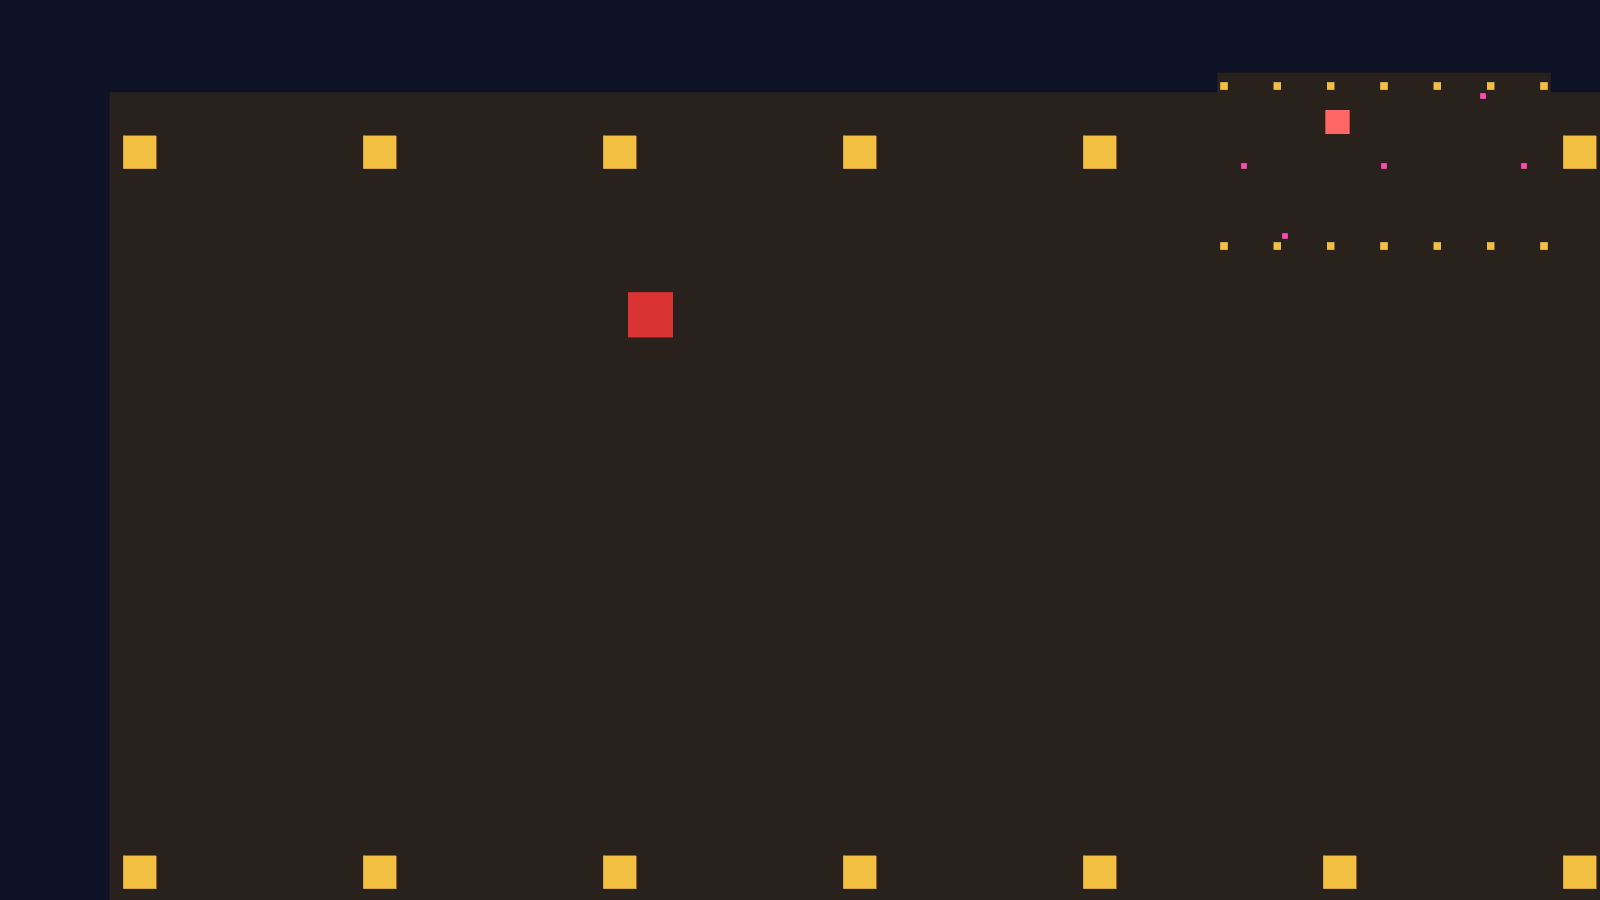
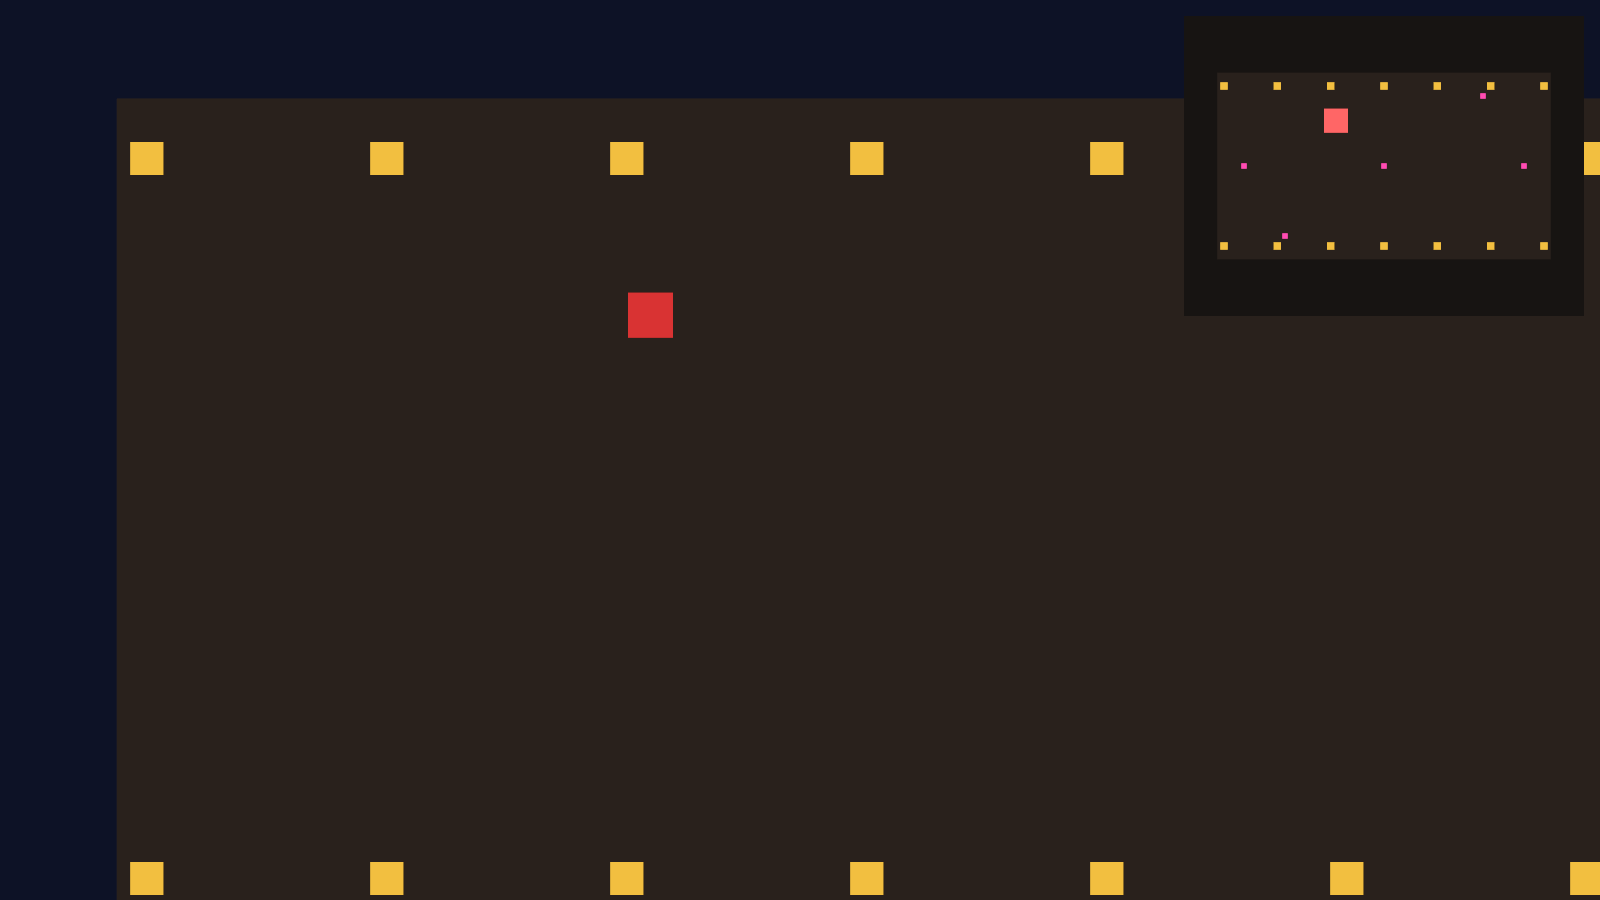
ch13: 修正多相机清屏断言——后画相机不清屏，沙盘改衬布垫底
ch28 写作期间实测发现：同一窗口上排位靠后的相机不执行清屏，其
clear_color（含 Custom）不落地，只在首相机铺的底上叠画（vendor 源码
prepare_view_targets/msaa_writeback/upscaling 三处链路核实）。连带修正：

- 13-05：listing-13-08 双机同 order 的真实画面是两幅取景叠印（实拍
  佐证：灯笼柱错乱、地毯过宽），非「其中一台的产出」；「各自清屏」删；
- 13-06：清屏段重写为「只有排最前的相机清屏」＋工作层衬布方案；
- 13-08：小结补清屏归属规则；练习 3 首步改为主机黑/沙盘白正反实验
  （已实测：黑全窗落地、白无影）；练习 4 提示按实测重写（沙盘随右路
  取景时隐时现，t=3.9 透出/t=11.8 被埋实拍验证）；
- 13-01：删「小地图要自带底色」失实伏笔；
- 代码：listing-13-10/main.rs 删无效 Custom，新增工作层深色衬布
  （1240×940，z=-20）作沙盘专属底；
- fig-13-06/09 重拍逐图核对；cargo check 与 mdbook build 全绿。

diff --git a/code/ch13-cameras/examples/listing-13-10.rs b/code/ch13-cameras/examples/listing-13-10.rs
@@ -42,13 +42,13 @@ fn setup(mut commands: Commands) {
             ..OrthographicProjection::default_2d()
         }),
     ));
-    // 沙盘机：order 靠后（叠在主画面上方），看第 0 层和工作层
+    // 沙盘机：order 靠后（叠在主画面上方），看第 0 层和工作层。
+    // 后画的相机不清屏，沙盘的底色由下面工作层的衬布负责
     commands.spawn((
         Camera2d,
         MinimapLens,
         Camera {
             order: 1,
-            clear_color: ClearColorConfig::Custom(Color::srgb(0.09, 0.08, 0.07)),
             ..default()
         },
         Projection::Orthographic(OrthographicProjection {
@@ -77,6 +77,14 @@ fn setup(mut commands: Commands) {
     }
 
     // ANCHOR: crew_props
+    // 沙盘的衬布：一块盖满沙盘取景框的深色底，也只许工作层看见——
+    // 同一窗口只有排最前的相机清屏，沙盘想要自己的底色，得真画一块
+    commands.spawn((
+        Sprite::from_color(Color::srgb(0.09, 0.08, 0.07), Vec2::new(1240.0, 940.0)),
+        Transform::from_xyz(0.0, 0.0, -20.0),
+        RenderLayers::layer(CREW_LAYER),
+    ));
+
     // 马克点：阿燕的走位记号，只许工作层看见
     for (x, y) in [(0.0, 0.0), (420.0, 0.0), (-420.0, 0.0), (297.0, 210.0), (-297.0, -210.0)] {
         commands.spawn((

diff --git a/code/ch13-cameras/src/main.rs b/code/ch13-cameras/src/main.rs
@@ -78,13 +78,13 @@ fn setup(mut commands: Commands) {
             ..OrthographicProjection::default_2d()
         }),
     ));
-    // 沙盘：最后画，叠在最上层；看第 0 层与工作层
+    // 沙盘：最后画，叠在最上层；看第 0 层与工作层。
+    // 后画的相机不清屏，沙盘的底色由工作层的衬布负责
     commands.spawn((
         Camera2d,
         MinimapLens,
         Camera {
             order: 2,
-            clear_color: ClearColorConfig::Custom(Color::srgb(0.09, 0.08, 0.07)),
             ..default()
         },
         Projection::Orthographic(OrthographicProjection {
@@ -110,6 +110,12 @@ fn setup(mut commands: Commands) {
             ));
         }
     }
+    // 沙盘的衬布：盖满沙盘取景框的深色底，只在工作层——沙盘的底色由它负责
+    commands.spawn((
+        Sprite::from_color(Color::srgb(0.09, 0.08, 0.07), Vec2::new(1240.0, 940.0)),
+        Transform::from_xyz(0.0, 0.0, -20.0),
+        RenderLayers::layer(CREW_LAYER),
+    ));
     // 马克点：走位记号，只在工作层
     for (x, y) in [(0.0, 0.0), (420.0, 0.0), (-420.0, 0.0), (297.0, 210.0), (-297.0, -210.0)] {
         commands.spawn((

diff --git a/book/src/ch13-08-thats-a-wrap.md b/book/src/ch13-08-thats-a-wrap.md
@@ -1,6 +1,6 @@
 # 杀青
 
-全章零件总装。机位单上三台机器：左路 `order 0` 跟拍阿燕，右路 `order 1` 跟拍踏雪，沙盘机 `order 2` 叠在右上角、两层通吃；马克点和两位主演的图例住在工作层，正片机位一概看不见；窗口一变，导播台整体重排；场记每四秒报一次左路的实拍范围。
+全章零件总装。机位单上三台机器：左路 `order 0` 跟拍阿燕，右路 `order 1` 跟拍踏雪，沙盘机 `order 2` 叠在右上角、两层通吃；衬布、马克点和两位主演的图例住在工作层，正片机位一概看不见；窗口一变，导播台整体重排；场记每四秒报一次左路的实拍范围。
 
 ```rust
 {{#include ../../code/ch13-cameras/src/main.rs}}
@@ -12,7 +12,7 @@
 cargo run -p ch13-cameras
 ```
 
-窗口左右分屏各追各的主角，右上角的沙盘里两个大图例在小黄点阵中画着各自的轨迹；控制台同步记着台账：
+窗口左右分屏各追各的主角，右上角衬布垫底的沙盘里，两个大图例在小黄点阵中画着各自的轨迹；控制台同步记着台账：
 
 ```text
 老雷：《侠客行》最后一场——全机位联动，开机！
@@ -22,7 +22,7 @@ cargo run -p ch13-cameras
 场记：左路实拍 x [-501, 32]，y [-122, 478]。
 ```
 
-![总装画面：左右分屏分别跟拍侠客与白马，右上角叠着沙盘小图，沙盘里有马克点与两位主演的大号图例，分屏画面里则没有](images/ch13/fig-13-09-wrap.png)
+![总装画面：左右分屏分别跟拍侠客与白马，右上角叠着深色衬布垫底的沙盘小图，沙盘里有马克点与两位主演的大号图例，分屏画面里则没有](images/ch13/fig-13-09-wrap.png)
 
 <span class="caption">Figure 13-9：全机位联动——order 排出三层画面，RenderLayers 各自结算</span>
 
@@ -35,7 +35,7 @@ cargo run -p ch13-cameras
 ## 小结
 
 - **相机是实体**：`Camera2d`/`Camera3d` 靠 required components 带齐 `Camera`、`Projection`、`Transform` 等全家桶；2D 与 3D 各启用一条渲染管线。没有相机就没有画面
-- **清屏色**：底色是相机每帧擦出来的。全局默认在 `ClearColor` 资源（出厂深灰），每台相机可用 `clear_color: ClearColorConfig` 改持 `Custom(颜色)` 或 `None`（不擦、直接叠画）
+- **清屏色**：底色是相机每帧擦出来的。全局默认在 `ClearColor` 资源（出厂深灰），相机可用 `clear_color: ClearColorConfig` 改持 `Custom(颜色)` 或 `None`（不擦、直接叠画）；同一个窗口上多相机时**只有排最前的那台真正清屏**，后画的一律直接叠画，它们的 `clear_color` 不落地
 - **运镜即改 `Transform`**：跟拍是每帧更新相机坐标；`smooth_nudge(&target, decay_rate, delta)` 给镜头帧率无关的平滑迟滞，速率越大追得越紧。相机的 z 别乱动——±1000 的可见区间以它为基准
 - **`Projection`** 一个枚举两大流派：正交（远近等大，2D 默认）与透视（近大远小，3D 默认）。`OrthographicProjection` 故意不实现 `Default`，构造用 `..default_2d()`（near = −1000）或 `..default_3d()`（near = 0）打底；`area` 字段是以相机为原点的真取景框，平移到相机位置即实拍范围
 - **世界↔视口换算**：视口坐标原点在左上、y 朝下。`viewport_to_world_2d` 把视口点（如鼠标）反算成世界坐标，`world_to_viewport` 走反向（血条、标签定位）
@@ -48,7 +48,7 @@ cargo run -p ch13-cameras
 
 1. **手感调校**：把 Listing 13-12 左路跟拍的 `smooth_nudge` 速率从 `2.0` 分别改成 `0.5` 和 `10.0`（右路保持 `2.0`），先预测分屏两侧的运镜差异，再运行对比。
 2. **电影感推拉**：Listing 13-7 的切镜是硬切。把 `cut_shots` 改成“每帧把 `ortho.scale` 向目标档位平滑逼近”——`f32` 同样实现了 `StableInterpolate`，`scale.smooth_nudge(&target, 3.0, delta)` 即可。分镜切换瞬间的观感会发生什么变化？
-3. **沙盘三连改**：基于 Listing 13-10 依次实验——把沙盘机的 `clear_color` 改成 `ClearColorConfig::None`；把它的 `RenderLayers` 改成只看 `from_layers(&[1])`；删掉图例子实体上的 `RenderLayers::layer(CREW_LAYER)`。每一步先预测沙盘和正片各自的变化，再运行验证。第三步的结果请用“RenderLayers 不沿层级继承”解释。
-4. **谁埋了沙盘**：把 Listing 13-12 里沙盘机的 `order` 改成 `0`、左路改成 `2`，预测右上角会发生什么，运行印证。提示：每台相机动笔前都要按自己的 `clear_color` 擦一遍自己的地盘。
+3. **沙盘三连改**：基于 Listing 13-10 依次实验——给主机位挂 `clear_color: ClearColorConfig::Custom(Color::BLACK)`、同时给沙盘机挂 `Custom(Color::WHITE)`，看哪台的颜色真上了画面、上在哪些地方；把沙盘机的 `RenderLayers` 改成只看 `from_layers(&[1])`；删掉图例子实体上的 `RenderLayers::layer(CREW_LAYER)`。每一步先预测沙盘和正片各自的变化，再运行验证。第一步的结果请用“只有排最前的相机清屏”解释，第三步的请用“RenderLayers 不沿层级继承”解释。
+4. **谁埋了沙盘**：把 Listing 13-12 里沙盘机的 `order` 改成 `0`、左路改成 `2`，预测右上角会发生什么，运行后盯着看至少十几秒再下结论。提示：后画的相机不清屏，右路只是把自己看见的东西叠上去——沙盘什么时候被埋、什么时候透出来，取决于那一刻右路的镜头里、那块地皮上画没画东西。
 
 下一章拍摄继续，但镜头转向幕后——片场里所有看得见的东西至今都是代码里现编的色块。真正的美术素材（图片、音频、字体、模型）怎么进入游戏？第 14 章拆 Bevy 的 Asset 系统：`AssetServer`、`Handle`，以及“加载是异步的”这件事如何改变你组织代码的方式。

diff --git a/book/src/ch13-06-minimap-and-render-layers.md b/book/src/ch13-06-minimap-and-render-layers.md
@@ -24,13 +24,13 @@
 
 <span class="caption">Listing 13-10（节选一）：主机位守第 0 层，沙盘机两层通吃（examples/listing-13-10.rs）</span>
 
-沙盘机的 `clear_color` 用上了第 1 节预告的 `ClearColorConfig::Custom`：自带一块比夜空更暗的底色，小图四周天然显出一圈“画框”。要是改成 `ClearColorConfig::None`，沙盘就不擦底、直接把灯笼柱和图例**叠画**在正片画面上——半透明 HUD 的味道，两种都值得跑一跑。
+沙盘机身上少了样东西：它没配自己的 `clear_color`。不是漏了，是配了也没用——上一节两机叠印时见过：**同一个窗口上，只有排最前的那台相机清屏**（用它的 `clear_color` 给整个窗口铺底），排在后面的相机一概不再擦布，直接把自己看见的东西叠画到已有画面上，它们的 `clear_color` 根本不会落地。于是沙盘的取景框里，凡是自己没画东西的地方，露出来的都是主机位先前画好的画面——多数时候正是那块大地毯，小图会整个“融”进正片里。想给沙盘一块专属的底，就得拿真会被画出来的东西当底：一块盖满取景框的深色衬布 `Sprite`，挂进工作层——沙盘看得见它，正片机位看不见：
 
 ```rust
 {{#include ../../code/ch13-cameras/examples/listing-13-10.rs:crew_props}}
 ```
 
-<span class="caption">Listing 13-10（节选二）：马克点与图例住进工作层（examples/listing-13-10.rs）</span>
+<span class="caption">Listing 13-10（节选二）：衬布、马克点与图例住进工作层（examples/listing-13-10.rs）</span>
 
 图例的挂法藏着一个容易栽跟头的细节：它是阿燕的**子实体**（第 9 章的 `children!`，跟着本体走位），但 `RenderLayers` **不沿层级继承**——爹在第 0 层、儿子挂哪层是儿子自己的事，一个实体一份组件，谁也不替谁作主。忘了给子实体单独挂层，它就默默留在第 0 层，正片穿帮没商量。
 
@@ -50,9 +50,9 @@ cargo run -p ch13-cameras --example listing-13-10
 老雷：右上角挂沙盘。马克点只许监视器看见，正片不许穿帮！
 ```
 
-跑起来逐项验收：主画面里镜头照常跟拍阿燕——**没有粉色马克点，没有大图例**，正片干干净净；右上角的沙盘里，十四根灯笼柱排成两行小黄点，五个粉色马克点原地待命，阿燕顶着醒目的大红图例画着“8”字。同一个世界，两台相机，各拍各的真相。
+跑起来逐项验收：主画面里镜头照常跟拍阿燕——**没有粉色马克点，没有大图例，也没有那块衬布**，正片干干净净；右上角的沙盘小图深色衬布垫底、四周衬出一圈画框，十四根灯笼柱排成两行小黄点，五个粉色马克点原地待命，阿燕顶着醒目的大红图例画着“8”字。同一个世界，两台相机，各拍各的真相。不信衬布那笔账的话，把它那几行注释掉再跑——沙盘的“底”当场消失，小图元素直接浮在正片的地毯上。
 
-![主画面跟拍红色侠客，画面里只有地毯和灯笼柱、没有任何粉色记号；右上角的沙盘小图里却清楚显示着五个粉色马克点和侠客的大号图例](images/ch13/fig-13-06-minimap.png)
+![主画面跟拍红色侠客，画面里只有地毯和灯笼柱、没有任何粉色记号；右上角深色衬布垫底的沙盘小图里却清楚显示着五个粉色马克点和侠客的大号图例](images/ch13/fig-13-06-minimap.png)
 
 <span class="caption">Figure 13-6：同一个世界，两种真相——马克点与图例只存在于沙盘的画面里</span>
 

diff --git a/book/src/ch13-05-split-screen.md b/book/src/ch13-05-split-screen.md
@@ -12,7 +12,7 @@
 cargo run -p ch13-cameras --example listing-13-08
 ```
 
-窗口照常打开，画面看上去也“正常”——但控制台立刻抗议了一声：
+窗口照常打开，粗看片场还是那个片场——可盯两眼就露馅了：灯笼柱多出好几根、间距也乱了，地毯宽得不像话。控制台还同步抗议了一声：
 
 ```text
 WARN bevy_render::camera: Camera order ambiguities detected for active cameras with
@@ -24,7 +24,7 @@ of the scene or (2) for cases where multiple active cameras is intentional,
 ambiguities could result in unpredictable render results.
 ```
 
-引擎的意思翻译过来：两台启用的相机往**同一个渲染目标**（主窗口）画画，可它们的 `order` 都是默认的 `0`——谁先画谁后画，没有说法。后画的会整幅压住先画的（包括清屏那一下），于是你看到的“正常画面”其实只是其中一台的产出，**至于是哪台，引擎不保证**。这是那种“今天看着对、改天换台机器就闪烁”的隐患。警告只报这一声就归于安静——它混在启动日志里一眼扫过去很容易漏掉，而安静不等于没事。
+引擎的意思翻译过来：两台启用的相机往**同一个渲染目标**（主窗口）画画，可它们的 `order` 都是默认的 `0`——谁先画谁后画，没有说法。画面上那些破绽正是这么来的：**排在前面的相机清屏、铺底；排在后面的相机不再清屏，直接把自己的取景叠画上去**。于是你看到的是两幅取景叠印的合成品——两台拍的是同一块场地，地毯同色，拼缝看不出来；灯笼柱和阿燕却各有两套位置，谁露出来、谁被后画那台的地毯盖住，全看叠印次序。本机这一跑是 2 号机叠在上面：画面里只剩它拍的那位阿燕，还偏离了画面正中。**至于谁先谁后，引擎不保证**——换一跑、换台机器都可能翻面。警告只报这一声就归于安静——它混在启动日志里一眼扫过去很容易漏掉，而安静不等于没事。
 
 两味药对症：
 
@@ -61,7 +61,7 @@ cargo run -p ch13-cameras --example listing-13-09
 场记：分屏就位，每路 800 × 900 物理像素。
 ```
 
-窗口从中线一分为二：左路镜头柔柔地跟着阿燕，右路追着踏雪绕场，两路各自清屏、各自取景，互不相扰。拖动窗口边框，分割线始终咬住中线——`WindowResized` 的功劳。
+窗口从中线一分为二：左路镜头柔柔地跟着阿燕，右路追着踏雪绕场，两路各自取景，互不相扰。拖动窗口边框，分割线始终咬住中线——`WindowResized` 的功劳。
 
 ![分屏画面：左半屏镜头对着红色侠客，右半屏对着白色骏马，两路画面各自取景，中线分明](images/ch13/fig-13-05-split-screen.png)
 

diff --git a/workorders/ch28.md b/workorders/ch28.md
@@ -250,7 +250,8 @@
      Custom 清屏配置；28.12 正文与图改「靠色板两次亮相辨界」+一句点破；fig-28-17 重拍。
      **连带发现 ch13 两处失实断言**（13-05「各自清屏」、13-08 练习 4 提示）+ 13-10/main
      沙盘机无效 Custom 配置——13-10 实测沙盘视口露的是主相机清屏色 (13,18,38) 非自家
-     (23,20,18)，已开独立后台任务 task_290eb625 修正，不并入本章。
+     (23,20,18)，已开独立后台任务 task_290eb625 修正，不并入本章（该任务 2026-07-08 已完结：
+     13-01/05/06/08 重写＋沙盘改工作层衬布垫底＋fig-13-06/09 重拍）。
   3. **main.rs 架子贴顶盖命图标**——①的连带，同一修法解决；根平级 UiStack 翻转问题随架子
      挂树消失。
 - 备注处置：fig-28-13 alt「右上」→「上排正中」（agent 抓的措辞不符）；fig-28-07 caption

diff --git a/PROGRESS.md b/PROGRESS.md
@@ -30,7 +30,7 @@
 | 10 | State——游戏状态机 | ✅ | code/ch10-states（src/main.rs + examples/listing-10-01～09，其中 10-10 在 no-compile/ 下为编译失败示例，开 bevy `debug` feature）；book/src/ch10-00～06；已迁 0.19（同值转换清场行为实测入正文，listing-10-07 加手肘一幕） |
 | 11 | 深入 ECS | ✅ | code/ch11-deep-ecs（src/main.rs + examples/listing-11-01～16，其中 11-02 在 no-compile/ 下为编译失败示例、11-05 为运行 panic 示例；main.rs 即 Listing 11-17；开 bevy `debug`+`track_location` feature）；book/src/ch11-00～09；已迁 0.19（新增“资源实体与混合查询”“连续访问”两节，配 listing-11-14～16，原盘点日顺延为 ch11-09） |
 | 12 | Transform 与坐标系统 | ✅ | code/ch12-transforms（src/main.rs + examples/listing-12-01～12，main.rs 即 Listing 12-13，开 bevy `debug` feature）；book/src/ch12-00～08；插图 images/ch12（Figure 12-1～12，含 1 张动图，scripts/make_ch12_figures.py 一键重建）；已迁 0.19（代码零改；B0004 警告块与 GlobalTransform 手改叙述按实测更新；7 张运行图重建逐图核对） |
-| 13 | Camera 与视口 | ✅ | code/ch13-cameras（src/main.rs + examples/listing-13-01～11，其中 13-06 在 no-compile/ 下为编译失败示例；main.rs 即 Listing 13-12）；book/src/ch13-00～08；插图 images/ch13（Figure 13-1～9，含 1 张动图，scripts/make_ch13_figures.py 一键重建）；已迁 0.19（代码零改；order 冲突警告改单次告警叙述、窗口实体号按实跑更新；7 张运行图重建逐图核对） |
+| 13 | Camera 与视口 | ✅ | code/ch13-cameras（src/main.rs + examples/listing-13-01～11，其中 13-06 在 no-compile/ 下为编译失败示例；main.rs 即 Listing 13-12）；book/src/ch13-00～08；插图 images/ch13（Figure 13-1～9，含 1 张动图，scripts/make_ch13_figures.py 一键重建）；已迁 0.19（代码零改；order 冲突警告改单次告警叙述、窗口实体号按实跑更新；7 张运行图重建逐图核对）；2026-07-08 多相机清屏机制修正（ch28 连带发现）：同窗后画相机的 clear_color 不落地——13-01/05/06/08 失实断言与练习按实测重写（13-08 双机实为叠印、练习 4 沙盘时隐时现均实拍佐证）、13-10/main 删无效 Custom 改工作层衬布垫底、fig-13-06/09 重拍核对 |
 | 14 | Asset 系统 | ✅ | code/ch14-assets（src/main.rs + examples/listing-14-01～11，main.rs 即 Listing 14-12；开 bevy `file_watcher` feature，依赖 thiserror）；book/src/ch14-00～09；插图 images/ch14（Figure 14-1～7，scripts/make_ch14_figures.py 一键重建；美术资产由 scripts/make_ch14_assets.py 生成）；已迁 0.19（新增“白纸黑字：把资产存回磁盘”一节（ch14-07，AssetSaver/save_using_saver，配 listing-14-09，原 09/10 顺延为 10/11、细则与开机大吉顺延为 ch14-08/09）；load_builder 正文跟进；热重载三实验回归；5 张运行图重建逐图核对） |
 | 15 | 2D 渲染：Sprite 与图集 | ✅ | code/ch15-sprites（src/main.rs + examples/listing-15-01～11，main.rs 即 Listing 15-12）；book/src/ch15-00～07；插图 images/ch15（Figure 15-1～14，含 3 张 SVG、1 张动图，scripts/make_ch15_figures.py 一键重建；美术资产由 scripts/make_ch15_assets.py 生成）；已迁 0.19（代码零改；load_builder 口径跟进、border 越界 ERROR 块按实跑双条更新；11 张运行图重建逐图核对，其中 8 张与旧版逐字节一致） |
 | 16 | 文本与字体 | ✅ | 已迁 0.19。code/ch16-text（src/main.rs + examples/listing-16-01～14，main.rs 即 Listing 16-15；listing-16-05 走 crate 转发 feature `system_font_discovery` + required-features 门控；中文字体资产为 Noto Sans SC 的 GB2312 子集，另有可变字体 MonaSans-VariableFont.ttf，scripts/make_ch16_assets.py 一键重建）；book/src/ch16-00～12（新增 16-03 字模三种叫法／16-04 向系统借字模／16-05 可变字体／16-07 会自己变的字号）；插图 images/ch16（Figure 16-1～16，含 1 张 SVG、2 张动图，scripts/make_ch16_figures.py 一键重建） |

diff --git a/book/src/ch13-01-unpacking-camera2d.md b/book/src/ch13-01-unpacking-camera2d.md
@@ -68,7 +68,7 @@ cargo run -p ch13-cameras --example listing-13-02
 | `Custom(Color)` | 自带颜色，无视全局 |
 | `None` | 不擦布，直接往现有画面上叠画 |
 
-眼下只有一台相机，资源级的 `Default` 足够。等本章后半段多相机同台，`Custom` 和 `None` 就有了用武之地——小地图要自带底色，画中画叠加要保留底下的画面。
+眼下只有一台相机，资源级的 `Default` 足够。`Custom` 和 `None` 的戏份在本章后半段——多相机同台时你会看到，这块擦布并不是人手一块：谁真的擦、谁只能往上叠画，有规矩。
 
 > **`is_active`：休息的机位**。`Camera` 组件还有个 `is_active: bool` 字段，设为 `false` 的相机完全停工，连清屏都不做。多机位轮换时，把不用的机位关掉比销毁重建便宜得多。
 